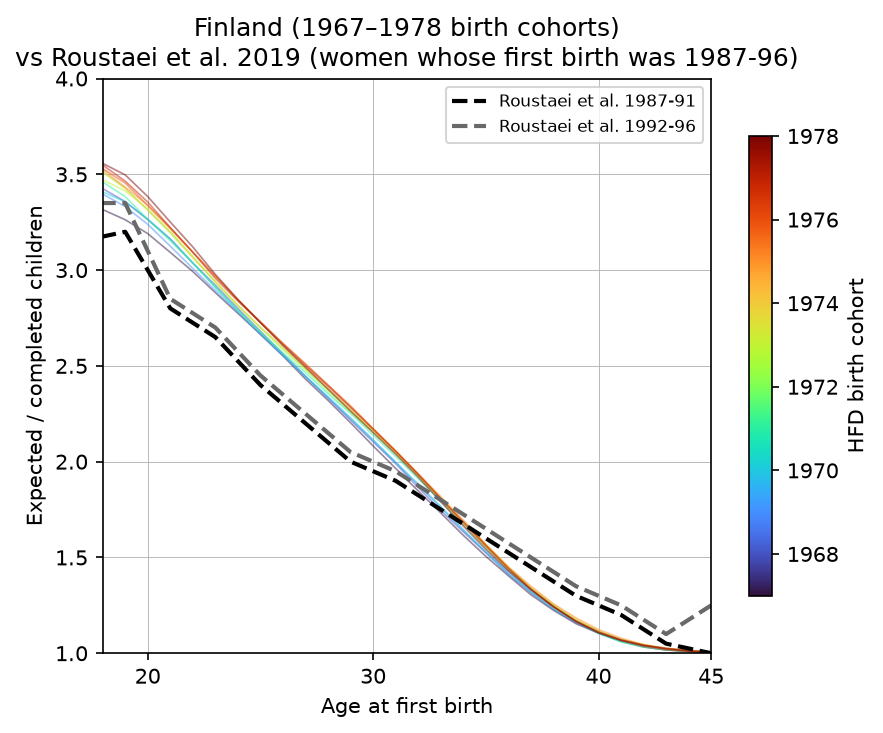
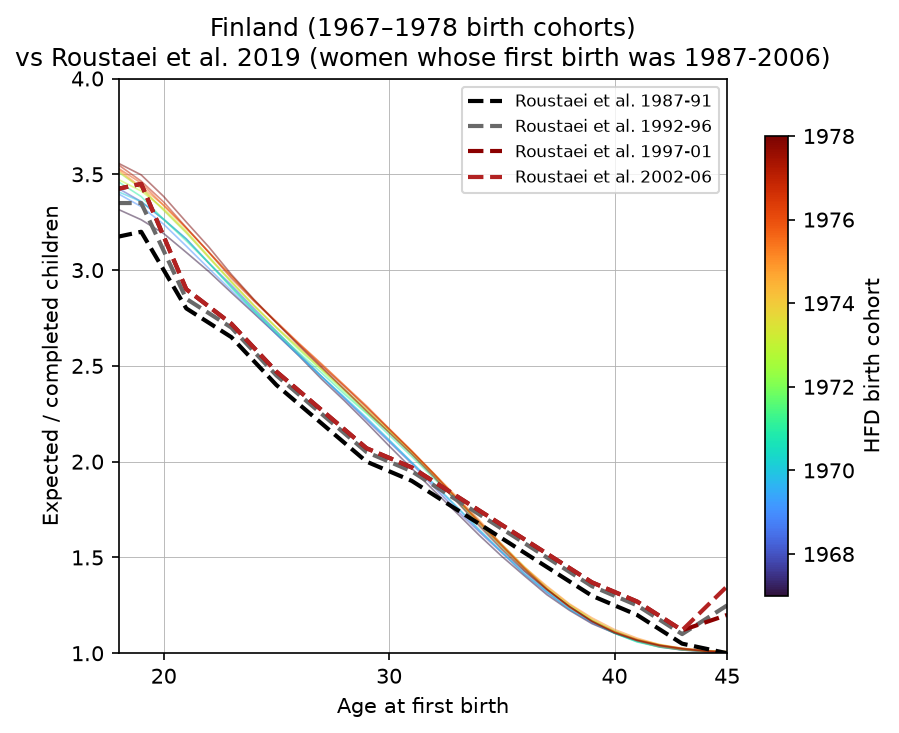
Add two more first-birth periods from the paper's supplementary figure
Roustaei et al.'s main-text Figure 2B only covers women whose first birth
was in 1987-91 or 1992-96. Their online supplementary PDF has an
(uncaptioned) extended version with two more 5-year periods, 1997-01 and
2002-06, on the same 1.0-3.5 children-per-woman scale -- digitized those
too, giving four periods to compare against the HFD-derived curves
instead of two.

diff --git a/HFD/scripts/finland_paper_comparison.py b/HFD/scripts/finland_paper_comparison.py
@@ -1,10 +1,16 @@
 """Overlay HFD-derived expected-children-by-age-of-first-birth curves for
 Finland (same cft.txt recursion as births_per_mother_region_grid.py, one
-line per birth cohort) against Figure 2B of Roustaei et al. (2019, BMJ
-Open) -- "completed fertility rate by age at first birth" for Finnish
-women whose first birth occurred in 1987-91 or 1992-96, digitized by eye
-from the published figure (https://bmjopen.bmj.com/content/9/1/e026336,
-Finnish Medical Birth Register data).
+line per birth cohort) against Roustaei et al. (2019, BMJ Open)
+-- "completed fertility rate by age at first birth" for Finnish women
+whose first birth occurred in one of four 5-year periods from 1987-2006,
+digitized by eye from the paper's online supplementary figure (panel B of
+https://pmc.ncbi.nlm.nih.gov/articles/instance/6340426/bin/bmjopen-2018-026336supp001.pdf),
+which extends the main text's Figure 2B (1987-91 and 1992-96 only) with
+two further periods. The supplementary PDF has no caption identifying
+what its three panels (A/B/C) each represent; panel B was picked because
+its 1.0-3.5 children-per-woman scale and 1987-91/1992-96 curves match
+Figure 2B exactly, so it's presumed to be the same measure extended to
+later periods rather than a different subgroup.
 
 These are two different kinds of measurement, not two samples of the same
 thing. HFD's curve is a modeled expected value: it chains each cohort's
@@ -24,16 +30,27 @@ import matplotlib.pyplot as plt
 
 from births_per_mother_region_grid import X_LIM, Y_LIM, load_data
 
-# Digitized from Figure 2B (zoomed screenshot, gridlines at every 2 years /
-# 0.5 children), reading the age-15-45 x-axis at each labelled tick.
+# Digitized at gridline resolution (every 2 years / 0.5 children) from
+# panel B of the supplementary PDF, which plots four curves: 1987-91,
+# 1992-96, 1997-01, 2002-06. The first two match Figure 2B in the main
+# text; the latter two are new here.
 PAPER_AGES = [15, 17, 19, 21, 23, 25, 27, 29, 31, 33, 35, 37, 39, 41, 43, 45]
 PAPER_CURVES = {
     "Roustaei et al. 1987-91": [3.15, 3.15, 3.20, 2.80, 2.65, 2.40, 2.20, 2.00,
                                  1.90, 1.75, 1.60, 1.45, 1.30, 1.20, 1.05, 1.00],
     "Roustaei et al. 1992-96": [3.30, 3.35, 3.35, 2.85, 2.70, 2.45, 2.25, 2.05,
                                  1.95, 1.80, 1.65, 1.50, 1.35, 1.25, 1.10, 1.25],
+    "Roustaei et al. 1997-01": [3.30, 3.40, 3.45, 2.90, 2.72, 2.47, 2.27, 2.07,
+                                 1.97, 1.82, 1.67, 1.52, 1.37, 1.27, 1.12, 1.20],
+    "Roustaei et al. 2002-06": [3.30, 3.40, 3.45, 2.90, 2.72, 2.47, 2.27, 2.07,
+                                 1.97, 1.82, 1.67, 1.52, 1.37, 1.27, 1.12, 1.35],
 }
-PAPER_COLORS = {"Roustaei et al. 1987-91": "black", "Roustaei et al. 1992-96": "dimgray"}
+PAPER_COLORS = {
+    "Roustaei et al. 1987-91": "black",
+    "Roustaei et al. 1992-96": "dimgray",
+    "Roustaei et al. 1997-01": "darkred",
+    "Roustaei et al. 2002-06": "firebrick",
+}
 
 
 def plot(df):
@@ -55,7 +72,7 @@ def plot(df):
     ax.grid(True, linewidth=0.4)
     ax.set_xlabel("Age at first birth")
     ax.set_ylabel("Expected / completed children")
-    ax.set_title(f"Finland ({int(subset['cohort'].min())}–{int(subset['cohort'].max())} birth cohorts)\nvs Roustaei et al. 2019 (women whose first birth was 1987-96)")
+    ax.set_title(f"Finland ({int(subset['cohort'].min())}–{int(subset['cohort'].max())} birth cohorts)\nvs Roustaei et al. 2019 (women whose first birth was 1987-2006)")
 
     sm = plt.cm.ScalarMappable(cmap=cmap, norm=norm)
     cbar = fig.colorbar(sm, ax=ax, label="HFD birth cohort", shrink=0.8)

diff --git a/docs/hfd/smaller-families.md b/docs/hfd/smaller-families.md
@@ -35,26 +35,29 @@ hazard, capped at 4+ (coarser than HFD's 5+).
 Roustaei et al. (2019) found the same pattern in Finnish population-register data: completed fertility around 3 children for a first birth before age 21, falling to about 2 (replacement level) by age 30.
 
 ```{image} /_static/hfd/finland_paper_comparison.png
-:alt: HFD-derived expected children by age of first birth for Finland (1967-1978 birth cohorts) overlaid on Roustaei et al. 2019's completed fertility curves for women whose first birth was in 1987-91 or 1992-96
+:alt: HFD-derived expected children by age of first birth for Finland (1967-1978 birth cohorts) overlaid on Roustaei et al. 2019's completed fertility curves for women whose first birth was in 1987-91, 1992-96, 1997-01, or 2002-06
 :width: 60%
 ```
 
 ```{note}
 Roustaei Z, Räisänen S, Gissler M, Heinonen S. "Fertility rates and the postponement of
 first births: a descriptive study with Finnish population data." BMJ Open 2019;9:e026336.
-Available at [bmjopen.bmj.com](https://bmjopen.bmj.com/content/9/1/e026336).
+Available at [bmjopen.bmj.com](https://bmjopen.bmj.com/content/9/1/e026336). Four periods
+digitized from panel B of the paper's [online supplementary
+figure](https://pmc.ncbi.nlm.nih.gov/articles/instance/6340426/bin/bmjopen-2018-026336supp001.pdf),
+which extends the main text's Figure 2B (1987-91 and 1992-96 only) to two further 5-year
+periods.
 
-Dashed lines digitized by eye from the paper's Figure 2B. The two curves aren't the same
-kind of measurement. HFD's is a modeled expected value: it chains each cohort's own
-age-specific parity-progression hazards together, assuming a woman's chance of a 2nd birth,
-3rd birth, etc. can be treated as independent probabilities at each age. The paper's, from
-Finland's individually-linked Medical Birth Register, is presumably a direct empirical
-average — the actual completed number of children real women had, tracked to today via
-personal identifiers, no chaining of rates required. The two also group cohorts
-differently (HFD by the mother's own birth year, the paper by the calendar year her first
-birth occurred). That a rate-based model and a direct headcount land on the same shape and
-range is themselves a useful check on the hazard-independence assumption the recursion
-relies on.
+The two curves aren't the same kind of measurement. HFD's is a modeled expected value: it
+chains each cohort's own age-specific parity-progression hazards together, assuming a
+woman's chance of a 2nd birth, 3rd birth, etc. can be treated as independent probabilities
+at each age. The paper's, from Finland's individually-linked Medical Birth Register, is
+presumably a direct empirical average — the actual completed number of children real women
+had, tracked to today via personal identifiers, no chaining of rates required. The two also
+group cohorts differently (HFD by the mother's own birth year, the paper by the calendar
+year her first birth occurred). That a rate-based model and a direct headcount land on the
+same shape and range is itself a useful check on the hazard-independence assumption the
+recursion relies on.
 ```
 
 ## Estimated across all countries, period basis
